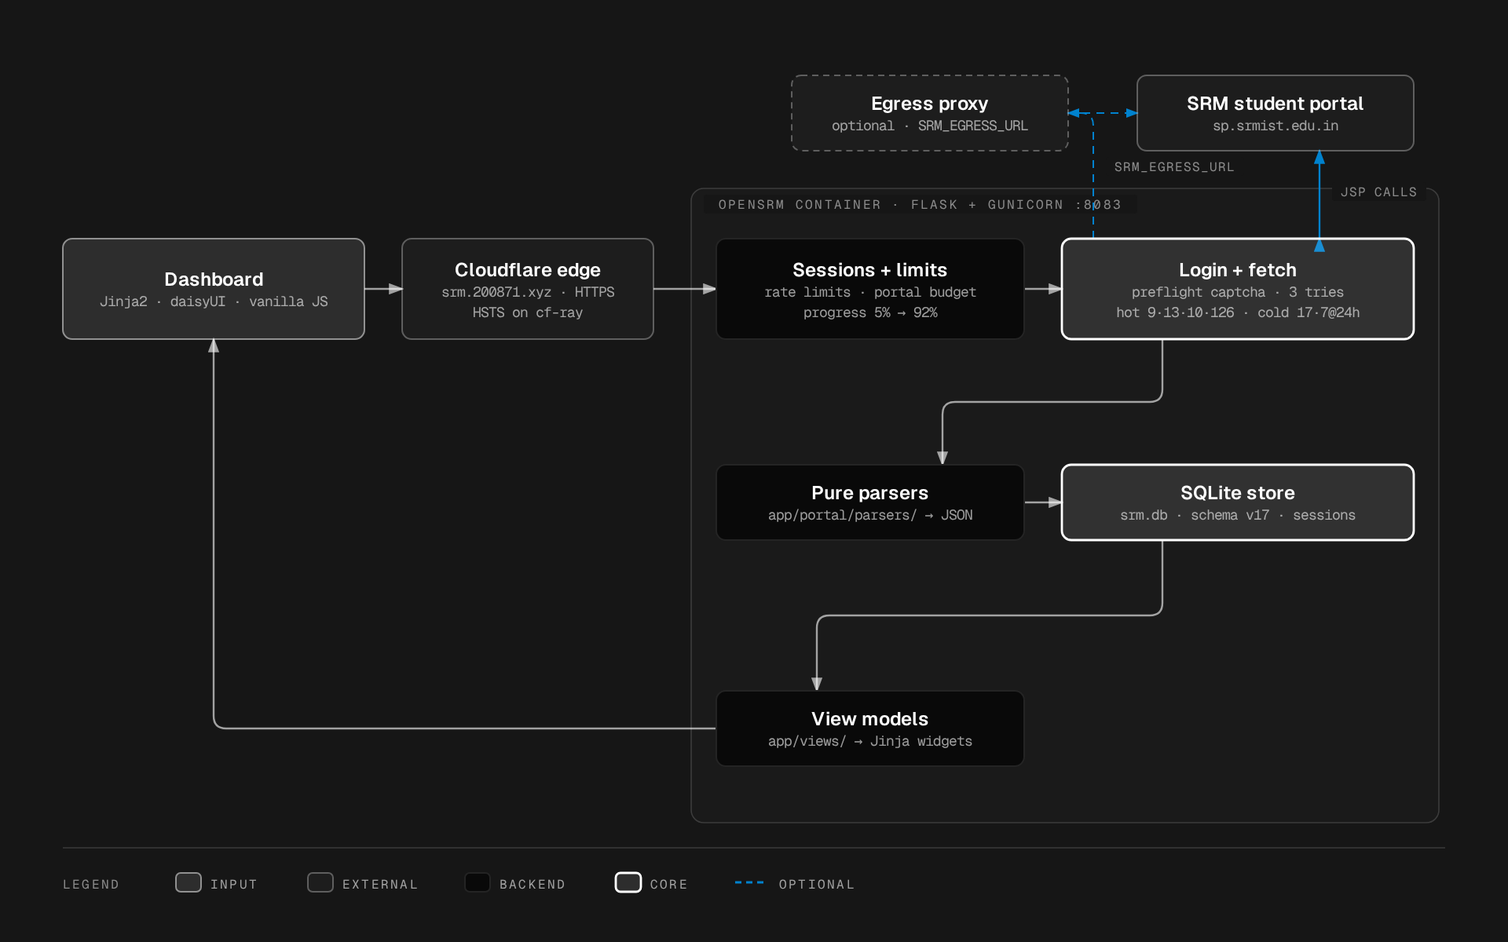
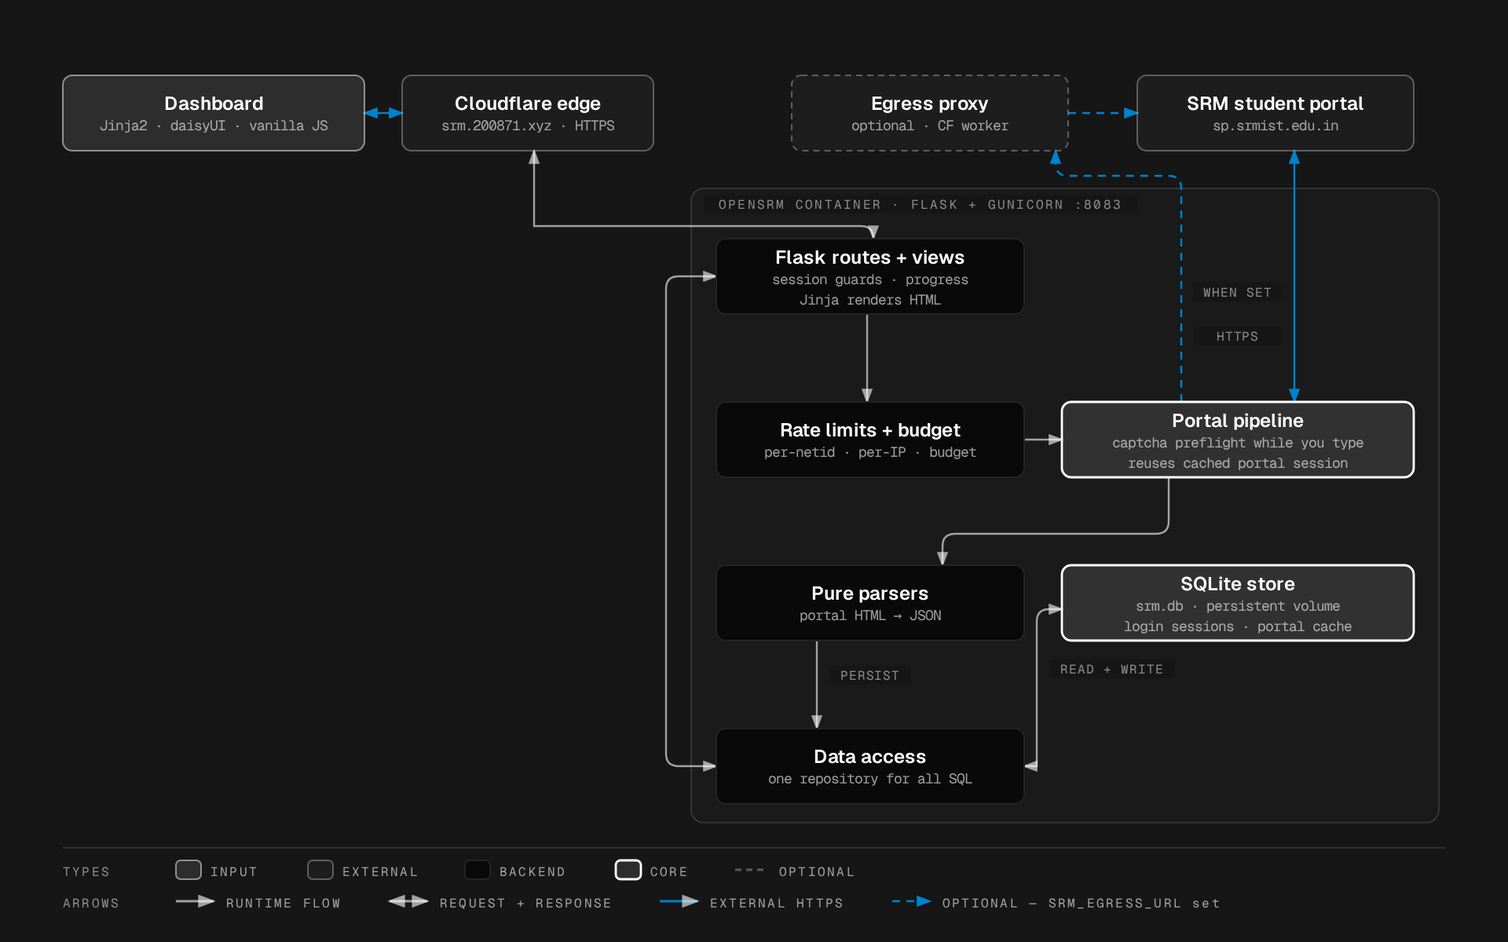
docs(readme): architecture diagram rev2 — applies the architecture review
Kept the praised openSRM skin, fixed the review's P0/P1/P2 findings against
what the code actually does:

- Arrow semantics defined and explained in the legend (solid = runtime flow,
  bidir = HTTP request+response, blue = external HTTPS, dashed = optional
  path); the legend previously covered component types only
- HTTP boundary explicit: Dashboard <-> Cloudflare edge <-> Flask routes are
  bidirectional, so responses travel the same entry point instead of the old
  long "view models -> dashboard" return arrow (review 8.4)
- Egress proxy now sits ON the portal path with two alternatives: solid
  direct leg (default) and dashed detour labeled WHEN SET; SRM_EGRESS_URL is
  named in the legend as the config gate rather than drawn as a connection
  (review 2.1)
- "Sessions + limits" split where the code genuinely splits it: rate limits +
  portal budget are their own node (app/state.py), progress/session guards
  sit with routes, and the two stored session kinds are spelled out in the
  SQLite sublabel: "login sessions · portal cache" (review 1.2 + 4)
- Data-access layer added between parsers and store — the repository exists
  (app/db.py, all SQL), so parsers no longer write the DB directly; edges
  labeled PERSIST and READ + WRITE (review 3.1/3.2)
- SQLite labeled "persistent volume"; portal pipeline sublabel answers
  whether login reads stored sessions ("reuses cached portal session")
- Operational shorthand removed from boxes (formIds, 5% -> 92%, schema v17,
[…]

diff --git a/docs/architecture.html b/docs/architecture.html
@@ -1,6 +1,9 @@
 <!doctype html>
-<!-- source of truth for docs/architecture.png — diagram-design skill, import-mermaid redraw
-     (dials: doc-inline 960x600 · balanced · mixed; skin: openSRM, DESIGN.md Appendix A)
+<!-- source of truth for docs/architecture.png — diagram-design import-mermaid redraw rev2
+     (applies the architecture review: arrow semantics + legend, explicit HTTP boundary,
+      proxy as alternative path with config gate, state.py limits split out, app/db.py
+      repository node, persistent-volume label, ops shorthand moved to README prose)
+     dials: doc-inline 960x600 · balanced · mixed · skin: openSRM (DESIGN.md Appendix A)
      regen: python3 /opt/data/skills/creative/diagram-design/scripts/export_png.py <this file> out.png 2 -->
 <html lang="en">
 <head>
@@ -24,51 +27,91 @@
   <div class="diagram-container">
     <svg viewBox="0 0 960 600" width="960" height="600" role="img" aria-labelledby="architecture-title architecture-desc" xmlns="http://www.w3.org/2000/svg">
       <title id="architecture-title">OpenSRM data flow architecture</title>
-      <desc id="architecture-desc">A sync flows from the installable PWA through the Cloudflare edge into the OpenSRM container — sessions and limits, login and fetch against the SRM student portal, pure parsers, and the SQLite store — then view models render every page back to the browser.</desc>
+      <desc id="architecture-desc">The browser reaches Flask through the Cloudflare edge over HTTPS; routes guarded by sessions and rate limits drive the portal pipeline, which talks to the SRM portal directly by default or through the optional egress proxy; parsed data is persisted through a single data-access repository into SQLite on a persistent volume, and routes render responses with Jinja.</desc>
 <rect width="100%" height="100%" fill="#161616"/>
 <defs>
 <marker id="arch-arrow" markerWidth="8" markerHeight="6" refX="7" refY="3" orient="auto"><polygon points="0 0, 8 3, 0 6" fill="rgba(255,255,255,0.60)"/></marker>
+<marker id="arch-arrow-start" markerWidth="8" markerHeight="6" refX="1" refY="3" orient="auto"><polygon points="8 0, 0 3, 8 6" fill="rgba(255,255,255,0.60)"/></marker>
 <marker id="arch-arrow-link" markerWidth="8" markerHeight="6" refX="7" refY="3" orient="auto"><polygon points="0 0, 8 3, 0 6" fill="#0082ce"/></marker>
+<marker id="arch-arrow-link-start" markerWidth="8" markerHeight="6" refX="1" refY="3" orient="auto"><polygon points="8 0, 0 3, 8 6" fill="#0082ce"/></marker>
 <marker id="arch-arrow-accent" markerWidth="8" markerHeight="6" refX="7" refY="3" orient="auto"><polygon points="0 0, 8 3, 0 6" fill="#ffffff"/></marker>
 </defs>
 <rect x="440" y="120" width="476" height="404" rx="8" fill="rgba(255,255,255,0.02)" stroke="rgba(255,255,255,0.16)" stroke-width="0.8"/>
 <rect x="448" y="124" width="276" height="12" rx="2" fill="#161616"/>
 <text x="586" y="133" fill="rgba(255,255,255,0.50)" font-size="8" font-family="'Geist Mono', ui-monospace, monospace" text-anchor="middle" letter-spacing="0.14em">OPENSRM CONTAINER · FLASK + GUNICORN :8083</text>
-<line x1="232" y1="184" x2="256" y2="184" stroke="rgba(255,255,255,0.60)" stroke-width="1.2" marker-end="url(#arch-arrow)"/>
-<line x1="416" y1="184" x2="456" y2="184" stroke="rgba(255,255,255,0.60)" stroke-width="1.2" marker-end="url(#arch-arrow)"/>
-<line x1="652" y1="184" x2="676" y2="184" stroke="rgba(255,255,255,0.60)" stroke-width="1.2" marker-end="url(#arch-arrow)"/>
-<path d="M 740,216 V 248 Q 740,256 732,256 H 608 Q 600,256 600,264 V 296" fill="none" stroke="rgba(255,255,255,0.60)" stroke-width="1.2" marker-end="url(#arch-arrow)"/>
-<line x1="652" y1="320" x2="676" y2="320" stroke="rgba(255,255,255,0.60)" stroke-width="1.2" marker-end="url(#arch-arrow)"/>
-<path d="M 740,344 V 384 Q 740,392 732,392 H 528 Q 520,392 520,400 V 440" fill="none" stroke="rgba(255,255,255,0.60)" stroke-width="1.2" marker-end="url(#arch-arrow)"/>
-<path d="M 456,464 H 144 Q 136,464 136,456 V 216" fill="none" stroke="rgba(255,255,255,0.60)" stroke-width="1.2" marker-end="url(#arch-arrow)"/>
-<line x1="840" y1="152" x2="840" y2="96" stroke="#0082ce" stroke-width="1.2" marker-end="url(#arch-arrow-link)" marker-start="url(#arch-arrow-link)"/>
-<path d="M 696,152 V 80 Q 696,72 688,72 H 680" fill="none" stroke="#0082ce" stroke-width="1" stroke-dasharray="5,4" marker-end="url(#arch-arrow-link)"/>
-<line x1="680" y1="72" x2="724" y2="72" stroke="#0082ce" stroke-width="1" stroke-dasharray="5,4" marker-end="url(#arch-arrow-link)"/>
-<rect x="848" y="116" width="60" height="12" rx="2" fill="#161616"/>
-<text x="878" y="125" fill="rgba(255,255,255,0.50)" font-size="8" font-family="'Geist Mono', ui-monospace, monospace" text-anchor="middle" letter-spacing="0.06em">JSP CALLS</text>
-<rect x="704" y="100" width="88" height="12" rx="2" fill="#161616"/>
-<text x="748" y="109" fill="rgba(255,255,255,0.50)" font-size="8" font-family="'Geist Mono', ui-monospace, monospace" text-anchor="middle" letter-spacing="0.06em">SRM_EGRESS_URL</text>
-<rect x="40" y="152" width="192" height="64" rx="6" fill="rgba(255,255,255,0.10)" stroke="rgba(255,255,255,0.50)" stroke-width="1"/><text x="136" y="182" fill="#ffffff" font-size="12" font-weight="600" font-family="'Geist', system-ui, sans-serif" text-anchor="middle">Dashboard</text><text x="136" y="195" fill="rgba(255,255,255,0.60)" font-size="9" font-family="'Geist Mono', ui-monospace, monospace" text-anchor="middle">Jinja2 · daisyUI · vanilla JS</text>
-<rect x="256" y="152" width="160" height="64" rx="6" fill="rgba(255,255,255,0.03)" stroke="rgba(255,255,255,0.30)" stroke-width="1"/><text x="336" y="176" fill="#ffffff" font-size="12" font-weight="600" font-family="'Geist', system-ui, sans-serif" text-anchor="middle">Cloudflare edge</text><text x="336" y="189" fill="rgba(255,255,255,0.60)" font-size="9" font-family="'Geist Mono', ui-monospace, monospace" text-anchor="middle">srm.200871.xyz · HTTPS</text><text x="336" y="202" fill="rgba(255,255,255,0.60)" font-size="9" font-family="'Geist Mono', ui-monospace, monospace" text-anchor="middle">HSTS on cf-ray</text>
-<rect x="456" y="152" width="196" height="64" rx="6" fill="#090909" stroke="#242424" stroke-width="1"/><text x="554" y="176" fill="#ffffff" font-size="12" font-weight="600" font-family="'Geist', system-ui, sans-serif" text-anchor="middle">Sessions + limits</text><text x="554" y="189" fill="rgba(255,255,255,0.60)" font-size="9" font-family="'Geist Mono', ui-monospace, monospace" text-anchor="middle">rate limits · portal budget</text><text x="554" y="202" fill="rgba(255,255,255,0.60)" font-size="9" font-family="'Geist Mono', ui-monospace, monospace" text-anchor="middle">progress 5% → 92%</text>
-<rect x="676" y="152" width="224" height="64" rx="6" fill="rgba(255,255,255,0.10)" stroke="#ffffff" stroke-width="1.4"/><text x="788" y="176" fill="#ffffff" font-size="12" font-weight="600" font-family="'Geist', system-ui, sans-serif" text-anchor="middle">Login + fetch</text><text x="788" y="189" fill="rgba(255,255,255,0.60)" font-size="9" font-family="'Geist Mono', ui-monospace, monospace" text-anchor="middle">preflight captcha · 3 tries</text><text x="788" y="202" fill="rgba(255,255,255,0.60)" font-size="9" font-family="'Geist Mono', ui-monospace, monospace" text-anchor="middle">hot 9·13·10·126 · cold 17·7@24h</text>
-<rect x="456" y="296" width="196" height="48" rx="6" fill="#090909" stroke="#242424" stroke-width="1"/><text x="554" y="318" fill="#ffffff" font-size="12" font-weight="600" font-family="'Geist', system-ui, sans-serif" text-anchor="middle">Pure parsers</text><text x="554" y="331" fill="rgba(255,255,255,0.60)" font-size="9" font-family="'Geist Mono', ui-monospace, monospace" text-anchor="middle">app/portal/parsers/ → JSON</text>
-<rect x="676" y="296" width="224" height="48" rx="6" fill="rgba(255,255,255,0.10)" stroke="#ffffff" stroke-width="1.4"/><text x="788" y="318" fill="#ffffff" font-size="12" font-weight="600" font-family="'Geist', system-ui, sans-serif" text-anchor="middle">SQLite store</text><text x="788" y="331" fill="rgba(255,255,255,0.60)" font-size="9" font-family="'Geist Mono', ui-monospace, monospace" text-anchor="middle">srm.db · schema v17 · sessions</text>
-<rect x="456" y="440" width="196" height="48" rx="6" fill="#090909" stroke="#242424" stroke-width="1"/><text x="554" y="462" fill="#ffffff" font-size="12" font-weight="600" font-family="'Geist', system-ui, sans-serif" text-anchor="middle">View models</text><text x="554" y="475" fill="rgba(255,255,255,0.60)" font-size="9" font-family="'Geist Mono', ui-monospace, monospace" text-anchor="middle">app/views/ → Jinja widgets</text>
-<rect x="724" y="48" width="176" height="48" rx="6" fill="rgba(255,255,255,0.03)" stroke="rgba(255,255,255,0.30)" stroke-width="1"/><text x="812" y="70" fill="#ffffff" font-size="12" font-weight="600" font-family="'Geist', system-ui, sans-serif" text-anchor="middle">SRM student portal</text><text x="812" y="83" fill="rgba(255,255,255,0.60)" font-size="9" font-family="'Geist Mono', ui-monospace, monospace" text-anchor="middle">sp.srmist.edu.in</text>
-<rect x="504" y="48" width="176" height="48" rx="6" fill="rgba(255,255,255,0.03)" stroke="rgba(255,255,255,0.30)" stroke-width="1" stroke-dasharray="4,3"/><text x="592" y="70" fill="#ffffff" font-size="12" font-weight="600" font-family="'Geist', system-ui, sans-serif" text-anchor="middle">Egress proxy</text><text x="592" y="83" fill="rgba(255,255,255,0.60)" font-size="9" font-family="'Geist Mono', ui-monospace, monospace" text-anchor="middle">optional · SRM_EGRESS_URL</text>
+<path d="M 232,72 H 256" fill="none" stroke="#0082ce" stroke-width="1.2" marker-end="url(#arch-arrow-link)" marker-start="url(#arch-arrow-link-start)"/>
+<path d="M 340,96 V 144 H 548 Q 556,144 556,152" fill="none" stroke="rgba(255,255,255,0.60)" stroke-width="1.2" marker-end="url(#arch-arrow)" marker-start="url(#arch-arrow-start)"/>
+<path d="M 552,200 V 256" fill="none" stroke="rgba(255,255,255,0.60)" stroke-width="1.2" marker-end="url(#arch-arrow)"/>
+<path d="M 652,280 H 676" fill="none" stroke="rgba(255,255,255,0.60)" stroke-width="1.2" marker-end="url(#arch-arrow)"/>
+<path d="M 824,256 V 96" fill="none" stroke="#0082ce" stroke-width="1.2" marker-end="url(#arch-arrow-link)" marker-start="url(#arch-arrow-link-start)"/>
+<path d="M 752,256 V 120 Q 752,112 744,112 H 680 Q 672,112 672,104 V 96" fill="none" stroke="#0082ce" stroke-width="1.2" stroke-dasharray="5,4" marker-end="url(#arch-arrow-link)"/>
+<path d="M 680,72 H 724" fill="none" stroke="#0082ce" stroke-width="1.2" stroke-dasharray="5,4" marker-end="url(#arch-arrow-link)"/>
+<path d="M 744,304 V 332 Q 744,340 736,340 H 608 Q 600,340 600,348 V 360" fill="none" stroke="rgba(255,255,255,0.60)" stroke-width="1.2" marker-end="url(#arch-arrow)"/>
+<path d="M 520,408 V 464" fill="none" stroke="rgba(255,255,255,0.60)" stroke-width="1.2" marker-end="url(#arch-arrow)"/>
+<path d="M 652,488 H 660 V 396 Q 660,388 668,388 H 676" fill="none" stroke="rgba(255,255,255,0.60)" stroke-width="1.2" marker-end="url(#arch-arrow)" marker-start="url(#arch-arrow-start)"/>
+<path d="M 456,176 H 432 Q 424,176 424,184 V 480 Q 424,488 432,488 H 456" fill="none" stroke="rgba(255,255,255,0.60)" stroke-width="1.2" marker-end="url(#arch-arrow)" marker-start="url(#arch-arrow-start)"/>
+<rect x="760" y="180" width="56" height="12" rx="2" fill="#161616"/>
+<text x="788" y="189" fill="rgba(255,255,255,0.50)" font-size="8" font-family="'Geist Mono', ui-monospace, monospace" text-anchor="middle" letter-spacing="0.06em">WHEN SET</text>
+<rect x="760" y="208" width="56" height="12" rx="2" fill="#161616"/>
+<text x="788" y="217" fill="rgba(255,255,255,0.50)" font-size="8" font-family="'Geist Mono', ui-monospace, monospace" text-anchor="middle" letter-spacing="0.06em">HTTPS</text>
+<rect x="668" y="420" width="80" height="12" rx="2" fill="#161616"/>
+<text x="708" y="429" fill="rgba(255,255,255,0.50)" font-size="8" font-family="'Geist Mono', ui-monospace, monospace" text-anchor="middle" letter-spacing="0.06em">READ + WRITE</text>
+<rect x="528" y="424" width="52" height="12" rx="2" fill="#161616"/>
+<text x="554" y="433" fill="rgba(255,255,255,0.50)" font-size="8" font-family="'Geist Mono', ui-monospace, monospace" text-anchor="middle" letter-spacing="0.06em">PERSIST</text>
+<rect x="40" y="48" width="192" height="48" rx="6" fill="rgba(255,255,255,0.10)" stroke="rgba(255,255,255,0.50)" stroke-width="1"/>
+<text x="136" y="70" fill="#ffffff" font-size="12" font-weight="600" font-family="'Geist', system-ui, sans-serif" text-anchor="middle">Dashboard</text>
+<text x="136" y="83" fill="rgba(255,255,255,0.60)" font-size="9" font-family="'Geist Mono', ui-monospace, monospace" text-anchor="middle">Jinja2 · daisyUI · vanilla JS</text>
+<rect x="256" y="48" width="160" height="48" rx="6" fill="rgba(255,255,255,0.03)" stroke="rgba(255,255,255,0.30)" stroke-width="1"/>
+<text x="336" y="70" fill="#ffffff" font-size="12" font-weight="600" font-family="'Geist', system-ui, sans-serif" text-anchor="middle">Cloudflare edge</text>
+<text x="336" y="83" fill="rgba(255,255,255,0.60)" font-size="9" font-family="'Geist Mono', ui-monospace, monospace" text-anchor="middle">srm.200871.xyz · HTTPS</text>
+<rect x="504" y="48" width="176" height="48" rx="6" fill="rgba(255,255,255,0.03)" stroke="rgba(255,255,255,0.30)" stroke-width="1" stroke-dasharray="4,3"/>
+<text x="592" y="70" fill="#ffffff" font-size="12" font-weight="600" font-family="'Geist', system-ui, sans-serif" text-anchor="middle">Egress proxy</text>
+<text x="592" y="83" fill="rgba(255,255,255,0.60)" font-size="9" font-family="'Geist Mono', ui-monospace, monospace" text-anchor="middle">optional · CF worker</text>
+<rect x="724" y="48" width="176" height="48" rx="6" fill="rgba(255,255,255,0.03)" stroke="rgba(255,255,255,0.30)" stroke-width="1"/>
+<text x="812" y="70" fill="#ffffff" font-size="12" font-weight="600" font-family="'Geist', system-ui, sans-serif" text-anchor="middle">SRM student portal</text>
+<text x="812" y="83" fill="rgba(255,255,255,0.60)" font-size="9" font-family="'Geist Mono', ui-monospace, monospace" text-anchor="middle">sp.srmist.edu.in</text>
+<rect x="456" y="152" width="196" height="48" rx="6" fill="#090909" stroke="#242424" stroke-width="1"/>
+<text x="554" y="168" fill="#ffffff" font-size="12" font-weight="600" font-family="'Geist', system-ui, sans-serif" text-anchor="middle">Flask routes + views</text>
+<text x="554" y="181" fill="rgba(255,255,255,0.60)" font-size="9" font-family="'Geist Mono', ui-monospace, monospace" text-anchor="middle">session guards · progress</text>
+<text x="554" y="194" fill="rgba(255,255,255,0.60)" font-size="9" font-family="'Geist Mono', ui-monospace, monospace" text-anchor="middle">Jinja renders HTML</text>
+<rect x="456" y="256" width="196" height="48" rx="6" fill="#090909" stroke="#242424" stroke-width="1"/>
+<text x="554" y="278" fill="#ffffff" font-size="12" font-weight="600" font-family="'Geist', system-ui, sans-serif" text-anchor="middle">Rate limits + budget</text>
+<text x="554" y="291" fill="rgba(255,255,255,0.60)" font-size="9" font-family="'Geist Mono', ui-monospace, monospace" text-anchor="middle">per-netid · per-IP · budget</text>
+<rect x="676" y="256" width="224" height="48" rx="6" fill="rgba(255,255,255,0.10)" stroke="#ffffff" stroke-width="1.4"/>
+<text x="788" y="272" fill="#ffffff" font-size="12" font-weight="600" font-family="'Geist', system-ui, sans-serif" text-anchor="middle">Portal pipeline</text>
+<text x="788" y="285" fill="rgba(255,255,255,0.60)" font-size="9" font-family="'Geist Mono', ui-monospace, monospace" text-anchor="middle">captcha preflight while you type</text>
+<text x="788" y="298" fill="rgba(255,255,255,0.60)" font-size="9" font-family="'Geist Mono', ui-monospace, monospace" text-anchor="middle">reuses cached portal session</text>
+<rect x="456" y="360" width="196" height="48" rx="6" fill="#090909" stroke="#242424" stroke-width="1"/>
+<text x="554" y="382" fill="#ffffff" font-size="12" font-weight="600" font-family="'Geist', system-ui, sans-serif" text-anchor="middle">Pure parsers</text>
+<text x="554" y="395" fill="rgba(255,255,255,0.60)" font-size="9" font-family="'Geist Mono', ui-monospace, monospace" text-anchor="middle">portal HTML → JSON</text>
+<rect x="676" y="360" width="224" height="48" rx="6" fill="rgba(255,255,255,0.10)" stroke="#ffffff" stroke-width="1.4"/>
+<text x="788" y="376" fill="#ffffff" font-size="12" font-weight="600" font-family="'Geist', system-ui, sans-serif" text-anchor="middle">SQLite store</text>
+<text x="788" y="389" fill="rgba(255,255,255,0.60)" font-size="9" font-family="'Geist Mono', ui-monospace, monospace" text-anchor="middle">srm.db · persistent volume</text>
+<text x="788" y="402" fill="rgba(255,255,255,0.60)" font-size="9" font-family="'Geist Mono', ui-monospace, monospace" text-anchor="middle">login sessions · portal cache</text>
+<rect x="456" y="464" width="196" height="48" rx="6" fill="#090909" stroke="#242424" stroke-width="1"/>
+<text x="554" y="486" fill="#ffffff" font-size="12" font-weight="600" font-family="'Geist', system-ui, sans-serif" text-anchor="middle">Data access</text>
+<text x="554" y="499" fill="rgba(255,255,255,0.60)" font-size="9" font-family="'Geist Mono', ui-monospace, monospace" text-anchor="middle">one repository for all SQL</text>
 <line x1="40" y1="540" x2="920" y2="540" stroke="rgba(255,255,255,0.16)" stroke-width="0.8"/>
-<text x="40" y="566" fill="rgba(255,255,255,0.50)" font-size="8" font-family="'Geist Mono', ui-monospace, monospace" letter-spacing="0.14em">LEGEND</text>
-<rect x="112" y="556" width="16" height="12" rx="3" fill="rgba(255,255,255,0.10)" stroke="rgba(255,255,255,0.50)" stroke-width="1"/>
-<text x="134" y="566" fill="rgba(255,255,255,0.60)" font-size="8" font-family="'Geist Mono', ui-monospace, monospace" letter-spacing="0.14em">INPUT</text>
-<rect x="196" y="556" width="16" height="12" rx="3" fill="rgba(255,255,255,0.03)" stroke="rgba(255,255,255,0.30)" stroke-width="1"/>
-<text x="218" y="566" fill="rgba(255,255,255,0.60)" font-size="8" font-family="'Geist Mono', ui-monospace, monospace" letter-spacing="0.14em">EXTERNAL</text>
-<rect x="296" y="556" width="16" height="12" rx="3" fill="#090909" stroke="#242424" stroke-width="1"/>
-<text x="318" y="566" fill="rgba(255,255,255,0.60)" font-size="8" font-family="'Geist Mono', ui-monospace, monospace" letter-spacing="0.14em">BACKEND</text>
-<rect x="392" y="556" width="16" height="12" rx="3" fill="rgba(255,255,255,0.10)" stroke="#ffffff" stroke-width="1.4"/>
-<text x="414" y="566" fill="rgba(255,255,255,0.60)" font-size="8" font-family="'Geist Mono', ui-monospace, monospace" letter-spacing="0.14em">CORE</text>
-<line x1="468" y1="562" x2="488" y2="562" stroke="#0082ce" stroke-width="1.4" stroke-dasharray="4,3"/>
-<text x="496" y="566" fill="rgba(255,255,255,0.60)" font-size="8" font-family="'Geist Mono', ui-monospace, monospace" letter-spacing="0.14em">OPTIONAL</text>
+<text x="40" y="558" fill="rgba(255,255,255,0.50)" font-size="8" font-family="'Geist Mono', ui-monospace, monospace" letter-spacing="0.14em">TYPES</text>
+<rect x="112" y="548" width="16" height="12" rx="3" fill="rgba(255,255,255,0.10)" stroke="rgba(255,255,255,0.50)" stroke-width="1"/>
+<text x="134" y="558" fill="rgba(255,255,255,0.60)" font-size="8" font-family="'Geist Mono', ui-monospace, monospace" letter-spacing="0.14em">INPUT</text>
+<rect x="196" y="548" width="16" height="12" rx="3" fill="rgba(255,255,255,0.03)" stroke="rgba(255,255,255,0.30)" stroke-width="1"/>
+<text x="218" y="558" fill="rgba(255,255,255,0.60)" font-size="8" font-family="'Geist Mono', ui-monospace, monospace" letter-spacing="0.14em">EXTERNAL</text>
+<rect x="296" y="548" width="16" height="12" rx="3" fill="#090909" stroke="#242424" stroke-width="1"/>
+<text x="318" y="558" fill="rgba(255,255,255,0.60)" font-size="8" font-family="'Geist Mono', ui-monospace, monospace" letter-spacing="0.14em">BACKEND</text>
+<rect x="392" y="548" width="16" height="12" rx="3" fill="rgba(255,255,255,0.10)" stroke="#ffffff" stroke-width="1.4"/>
+<text x="414" y="558" fill="rgba(255,255,255,0.60)" font-size="8" font-family="'Geist Mono', ui-monospace, monospace" letter-spacing="0.14em">CORE</text>
+<line x1="468" y1="554" x2="488" y2="554" stroke="rgba(255,255,255,0.30)" stroke-width="1.4" stroke-dasharray="4,3"/>
+<text x="496" y="558" fill="rgba(255,255,255,0.60)" font-size="8" font-family="'Geist Mono', ui-monospace, monospace" letter-spacing="0.14em">OPTIONAL</text>
+<text x="40" y="578" fill="rgba(255,255,255,0.50)" font-size="8" font-family="'Geist Mono', ui-monospace, monospace" letter-spacing="0.14em">ARROWS</text>
+<line x1="112" y1="574" x2="136" y2="574" stroke="rgba(255,255,255,0.60)" stroke-width="1.4" marker-end="url(#arch-arrow)"/>
+<text x="144" y="578" fill="rgba(255,255,255,0.60)" font-size="8" font-family="'Geist Mono', ui-monospace, monospace" letter-spacing="0.14em">RUNTIME FLOW</text>
+<line x1="248" y1="574" x2="272" y2="574" stroke="rgba(255,255,255,0.60)" stroke-width="1.4" marker-end="url(#arch-arrow)" marker-start="url(#arch-arrow-start)"/>
+<text x="280" y="578" fill="rgba(255,255,255,0.60)" font-size="8" font-family="'Geist Mono', ui-monospace, monospace" letter-spacing="0.14em">REQUEST + RESPONSE</text>
+<line x1="420" y1="574" x2="444" y2="574" stroke="#0082ce" stroke-width="1.4" marker-end="url(#arch-arrow)"/>
+<text x="452" y="578" fill="rgba(255,255,255,0.60)" font-size="8" font-family="'Geist Mono', ui-monospace, monospace" letter-spacing="0.14em">EXTERNAL HTTPS</text>
+<line x1="568" y1="574" x2="592" y2="574" stroke="#0082ce" stroke-width="1.2" stroke-dasharray="5,4" marker-end="url(#arch-arrow-link)"/>
+<text x="600" y="578" fill="rgba(255,255,255,0.60)" font-size="8" font-family="'Geist Mono', ui-monospace, monospace" letter-spacing="0.14em">OPTIONAL — SRM_EGRESS_URL set</text>
     </svg>
   </div>
 </div>

diff --git a/README.md b/README.md
@@ -145,9 +145,9 @@ rotation) see [docs/runbook.md](docs/runbook.md).
    attempt — it never burns captcha retries or trips the portal's
    3-attempts-per-NetID lockout. Progress (5% → 92%) streams to the login
    screen.
-3. **Sync** — attendance, marks and the official timetable/exam forms are
-   fetched fresh on every sync and persisted; personal details and courses
-   only when older than 24 h. Everything is rate-limited per account, per IP
+3. **Sync** — the hot forms (attendance 9, marks 13, timetable 10, exams 126)
+   are fetched fresh on every sync and persisted; the cold forms (profile 17,
+   courses 7) only when older than 24 h. Everything is rate-limited per account, per IP
    and by an aggregate portal budget, serialized one pipeline at a time
    behind a bounded queue.
 4. **Serve** — parsed JSON lives in SQLite; the dashboard renders straight
@@ -163,11 +163,11 @@ portal to pixel:
   <img src="docs/architecture.png" alt="OpenSRM architecture — PWA → Cloudflare edge → Flask container (sessions, login+fetch, parsers, SQLite) → view models, with the SRM portal and optional egress worker" width="100%">
 </p>
 
-A sync starts at your browser, crosses the tunnel, lands every parsed
-payload in SQLite, and every page then renders straight from that store — so
-the dashboard keeps working from cache even when the portal doesn't. The
-*Login + fetch* box carries the hot/cold form split (attendance, marks,
-timetable and exams on every sync; profile and courses only after 24 h).
+A sync starts at your browser, crosses the tunnel as a normal HTTP
+request/response, and every page renders straight from the store — so the
+dashboard keeps working from cache even when the portal doesn't. The pipeline
+talks to the portal directly by default; the dashed detour through the egress
+worker only exists when `SRM_EGRESS_URL` is set.
 
 A sync starts at your browser, crosses the tunnel, logs in with a captcha
 that was already solved while you typed, pulls the hot forms, parses them
